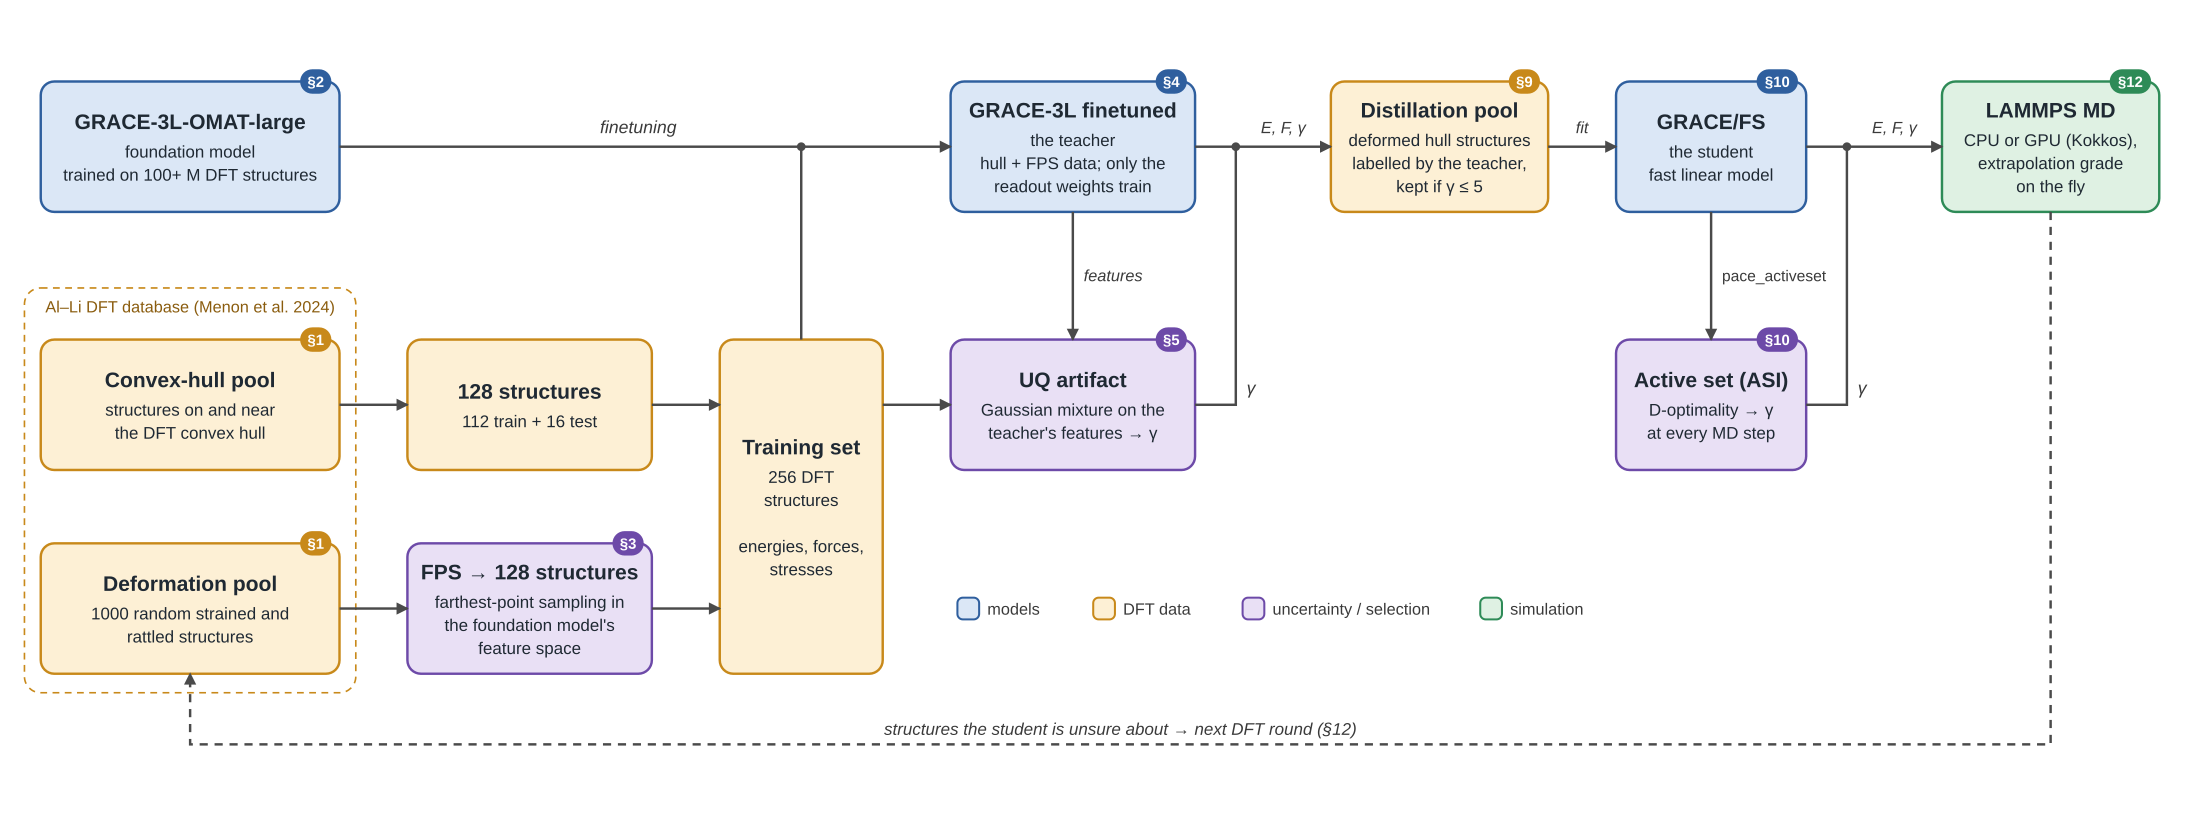
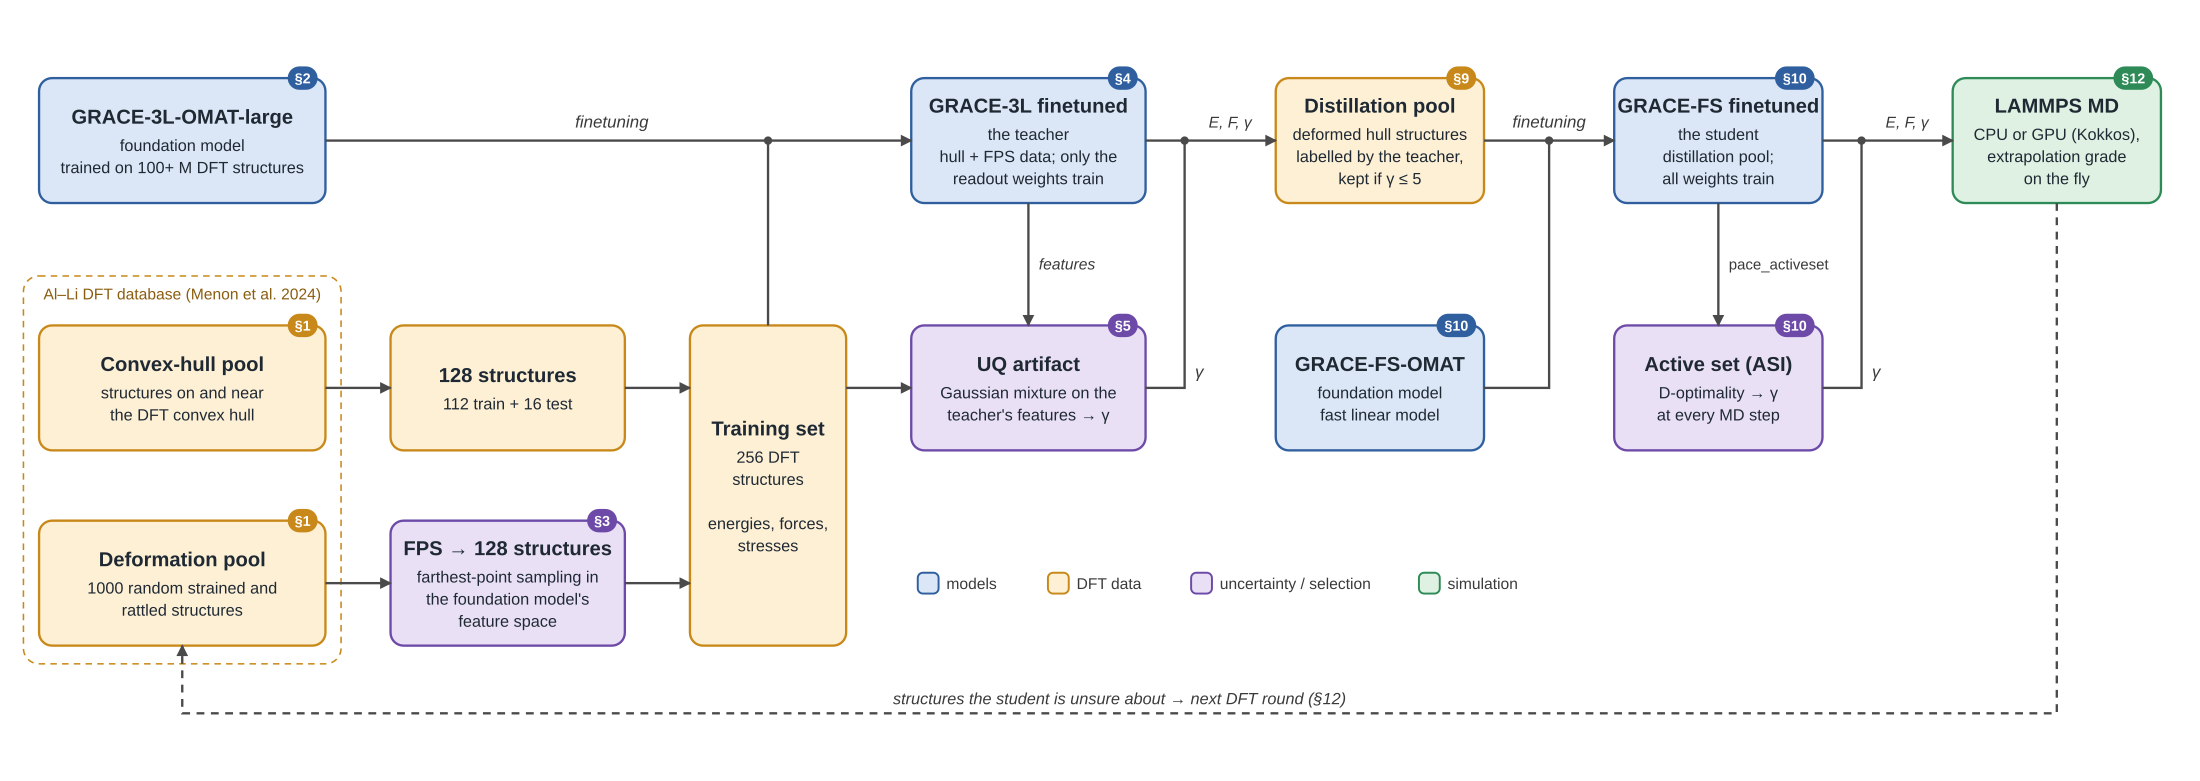
Scheme: the student is GRACE-FS-OMAT finetuned on the distillation pool

diff --git a/figures/make_scheme.py b/figures/make_scheme.py
@@ -4,7 +4,7 @@ finetuned teacher + UQ artifact -> distillation pool -> GRACE/FS student + activ
 from pathlib import Path
 import sys
 
-W, H = 1620, 600
+W, H = 1690, 600
 FONT = "Liberation Sans, Helvetica, Arial, sans-serif"
 C = {  # fill, stroke
     "model": ("#dbe7f6", "#2f5f9e"),
@@ -59,11 +59,12 @@ box(700, TOP, 180, BH, "GRACE-3L finetuned", ["the teacher", "hull + FPS data; o
 box(700, MID, 180, BH, "UQ artifact", ["Gaussian mixture on the", "teacher's features → γ"], "uq", "§5")
 # column 5: distillation pool
 box(980, TOP, 160, BH, "Distillation pool", ["deformed hull structures", "labelled by the teacher,", "kept if γ ≤ 5"], "data", "§9")
+box(980, MID, 160, BH, "GRACE-FS-OMAT", ["foundation model", "fast linear model"], "model", "§10")
 # column 6: student and its active set
-box(1190, TOP, 140, BH, "GRACE/FS", ["the student", "fast linear model"], "model", "§10")
-box(1190, MID, 140, BH, "Active set (ASI)", ["D-optimality → γ", "at every MD step"], "uq", "§10")
+box(1240, TOP, 160, BH, "GRACE-FS finetuned", ["the student", "distillation pool;", "all weights train"], "model", "§10")
+box(1240, MID, 160, BH, "Active set (ASI)", ["D-optimality → γ", "at every MD step"], "uq", "§10")
 # column 7: LAMMPS
-box(1430, TOP, 160, BH, "LAMMPS MD", ["CPU or GPU (Kokkos),", "extrapolation grade", "on the fly"], "sim", "§12")
+box(1500, TOP, 160, BH, "LAMMPS MD", ["CPU or GPU (Kokkos),", "extrapolation grade", "on the fly"], "sim", "§12")
 
 # ---------------------------------------------------------------- arrows
 y1 = TOP + BH/2   # top row centre line
@@ -84,16 +85,19 @@ arrow([(880, ym), (910, ym), (910, y1)], head=False); dot(910, y1)
 label(918, ym-8, "γ", anchor="start", size=13)
 # teacher (+UQ) -> distillation pool -> student
 arrow([(880, y1), (980, y1)]); label(945, y1-10, "E, F, γ", size=12)
-arrow([(1140, y1), (1190, y1)]); label(1165, y1-10, "fit", size=12)
+arrow([(1140, y1), (1190, y1)], head=False); dot(1190, y1)
+arrow([(1190, y1), (1240, y1)])
+arrow([(1140, ym), (1190, ym), (1190, y1)], head=False)
+label(1190, y1-10, "finetuning", size=13)
 # student -> active set; both -> LAMMPS
-arrow([(1260, TOP+BH), (1260, MID)]); label(1268, (TOP+BH+MID)/2+4, "pace_activeset", anchor="start", size=11.5, italic=False)
-arrow([(1330, ym), (1360, ym), (1360, y1)], head=False); dot(1360, y1)
-arrow([(1330, y1), (1360, y1)], head=False)
-arrow([(1360, y1), (1430, y1)]); label(1395, y1-10, "E, F, γ", size=12)
-label(1368, ym-8, "γ", anchor="start", size=13)
+arrow([(1320, TOP+BH), (1320, MID)]); label(1328, (TOP+BH+MID)/2+4, "pace_activeset", anchor="start", size=11.5, italic=False)
+arrow([(1400, ym), (1430, ym), (1430, y1)], head=False); dot(1430, y1)
+arrow([(1400, y1), (1430, y1)], head=False)
+arrow([(1430, y1), (1500, y1)]); label(1465, y1-10, "E, F, γ", size=12)
+label(1438, ym-8, "γ", anchor="start", size=13)
 # closing the loop: LAMMPS -> structures for the next DFT round -> pools
-arrow([(1510, TOP+BH), (1510, 548), (140, 548), (140, BOT+BH)], dashed=True)
-label(825, 541, "structures the student is unsure about → next DFT round (§12)", size=12.5)
+arrow([(1580, TOP+BH), (1580, 548), (140, 548), (140, BOT+BH)], dashed=True)
+label(860, 541, "structures the student is unsure about → next DFT round (§12)", size=12.5)
 
 # ---------------------------------------------------------------- legend
 lx, ly = 705, 440
